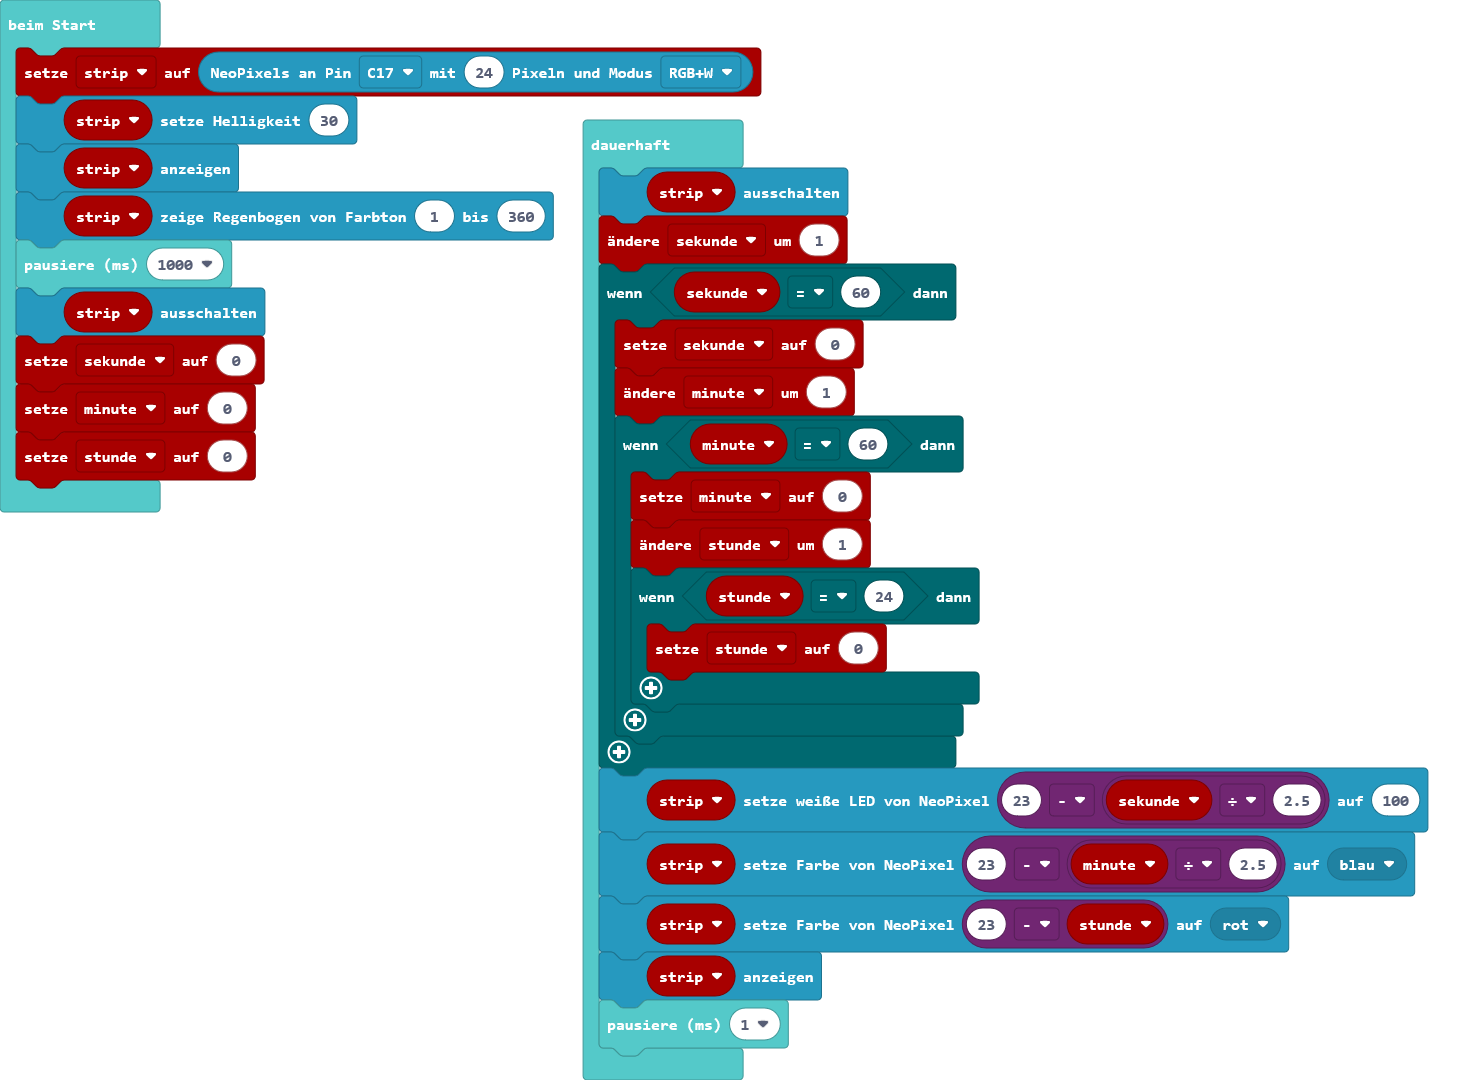
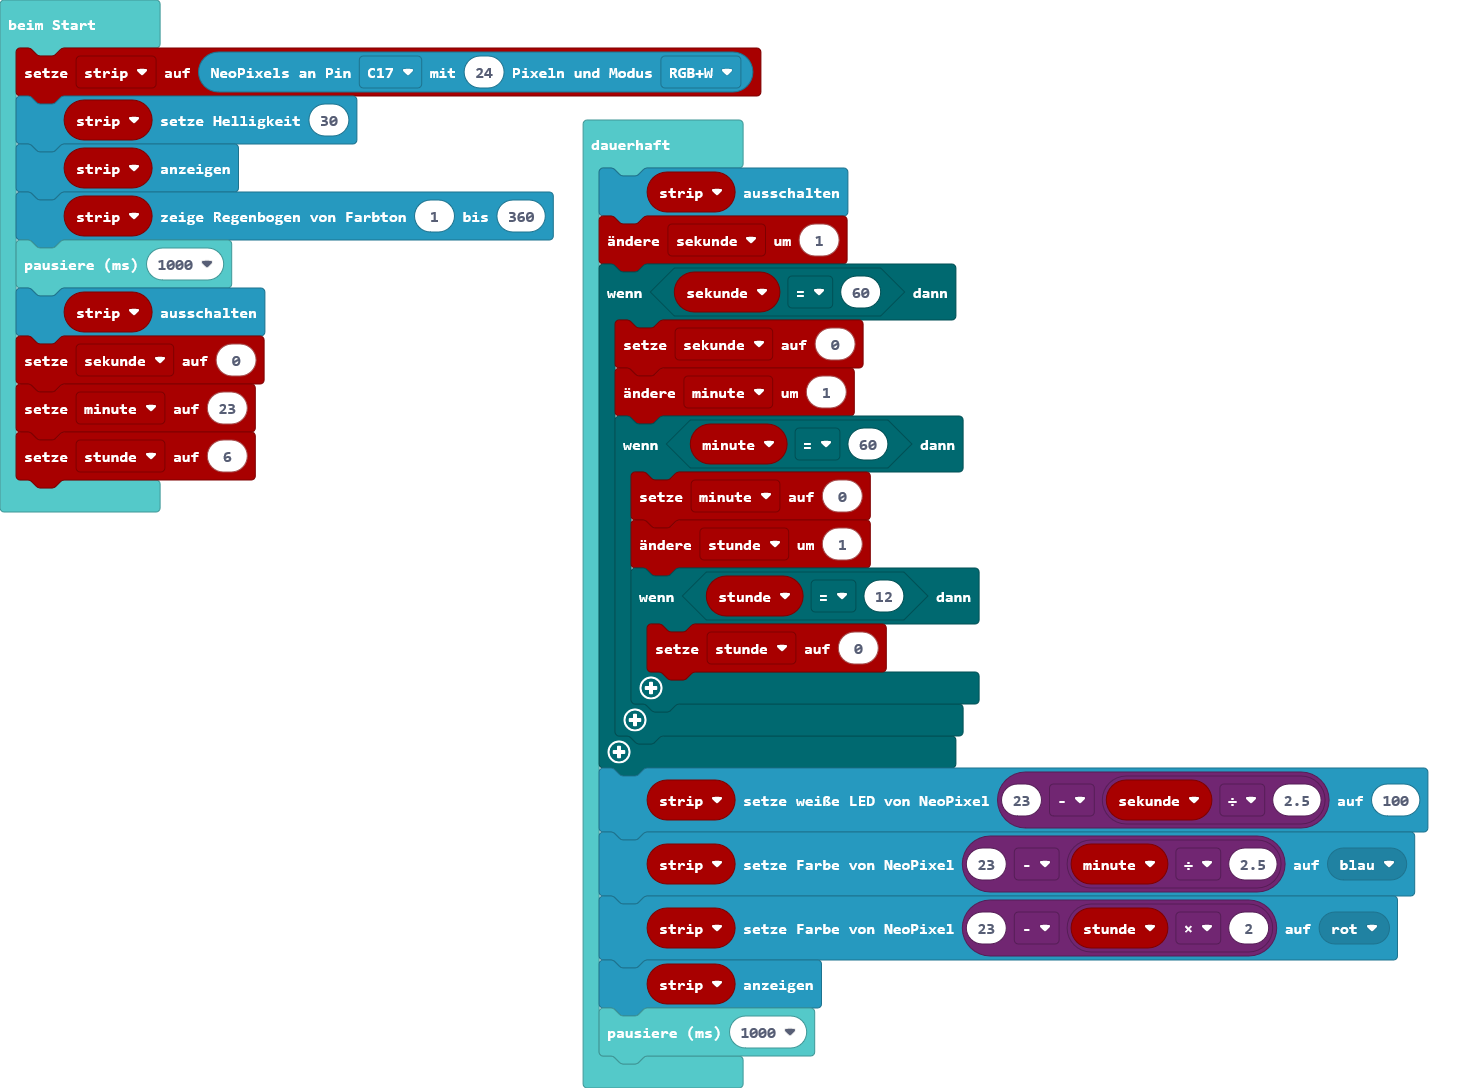
Aktualisiere main.blocks, main.ts

diff --git a/main.ts b/main.ts
@@ -5,8 +5,8 @@ strip.showRainbow(1, 360)
 basic.pause(1000)
 strip.clear()
 let sekunde = 0
-let minute = 0
-let stunde = 0
+let minute = 23
+let stunde = 6
 basic.forever(function () {
     strip.clear()
     sekunde += 1
@@ -16,14 +16,14 @@ basic.forever(function () {
         if (minute == 60) {
             minute = 0
             stunde += 1
-            if (stunde == 24) {
+            if (stunde == 12) {
                 stunde = 0
             }
         }
     }
     strip.setPixelWhiteLED(23 - sekunde / 2.5, 100)
     strip.setPixelColor(23 - minute / 2.5, neopixel.colors(NeoPixelColors.Blue))
-    strip.setPixelColor(23 - stunde, neopixel.colors(NeoPixelColors.Red))
+    strip.setPixelColor(23 - stunde * 2, neopixel.colors(NeoPixelColors.Red))
     strip.show()
-    basic.pause(1)
+    basic.pause(1000)
 })
